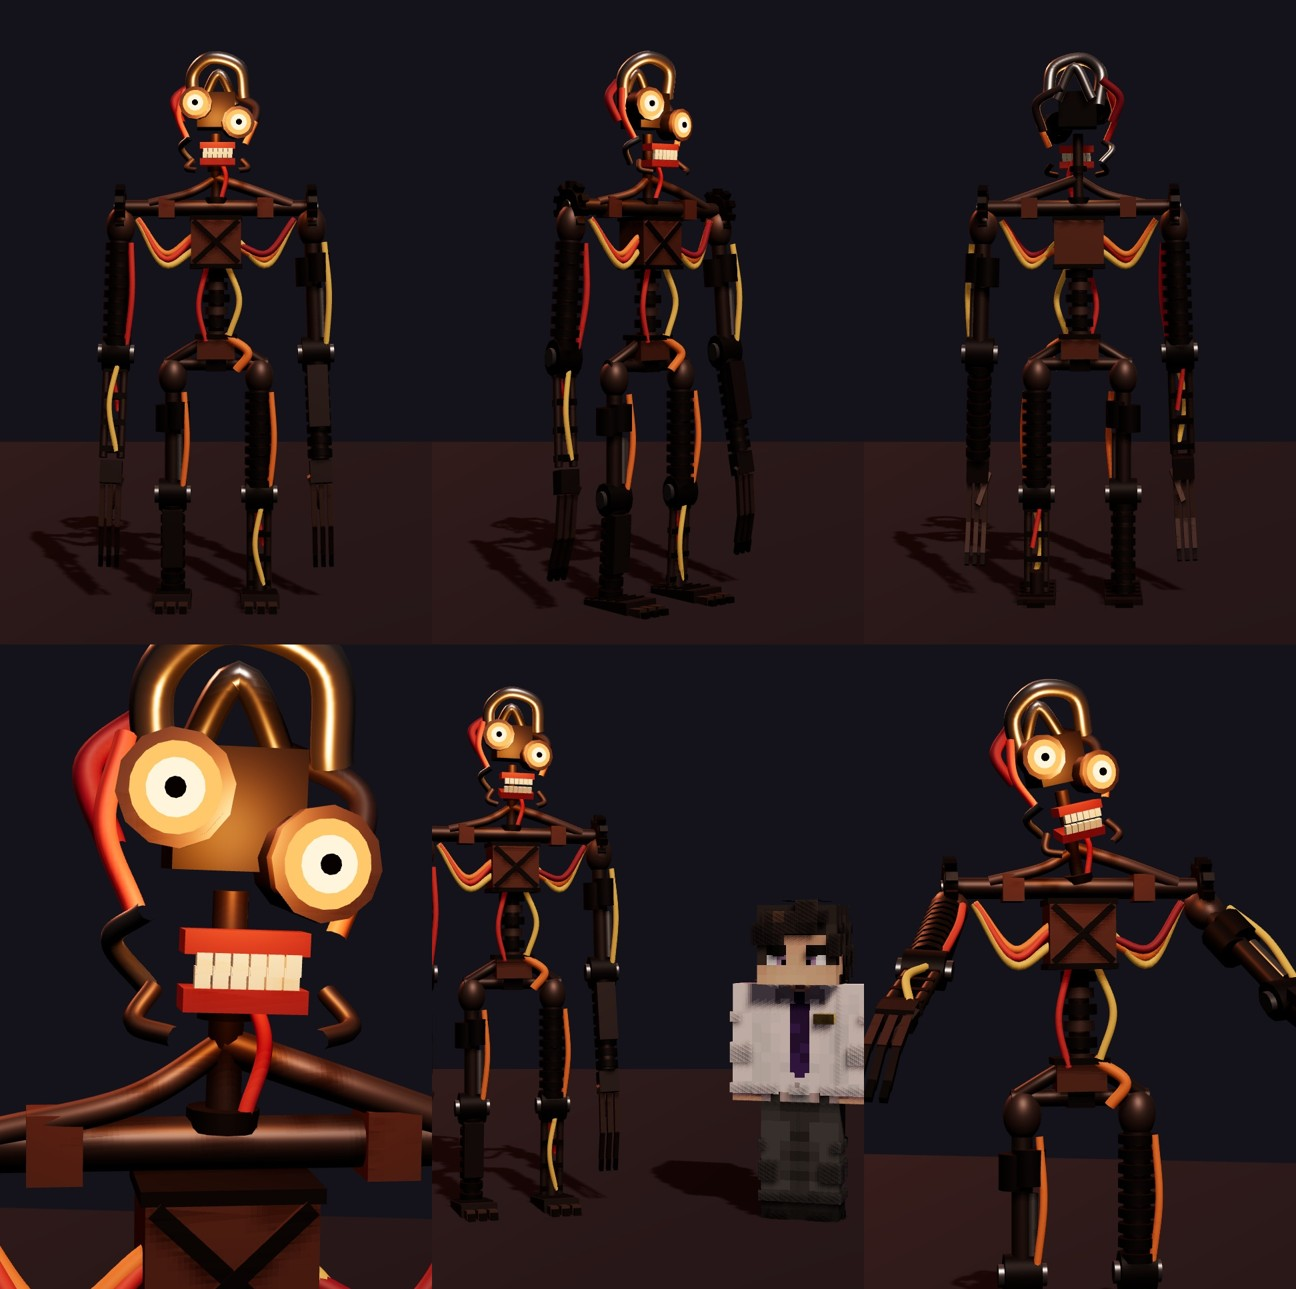
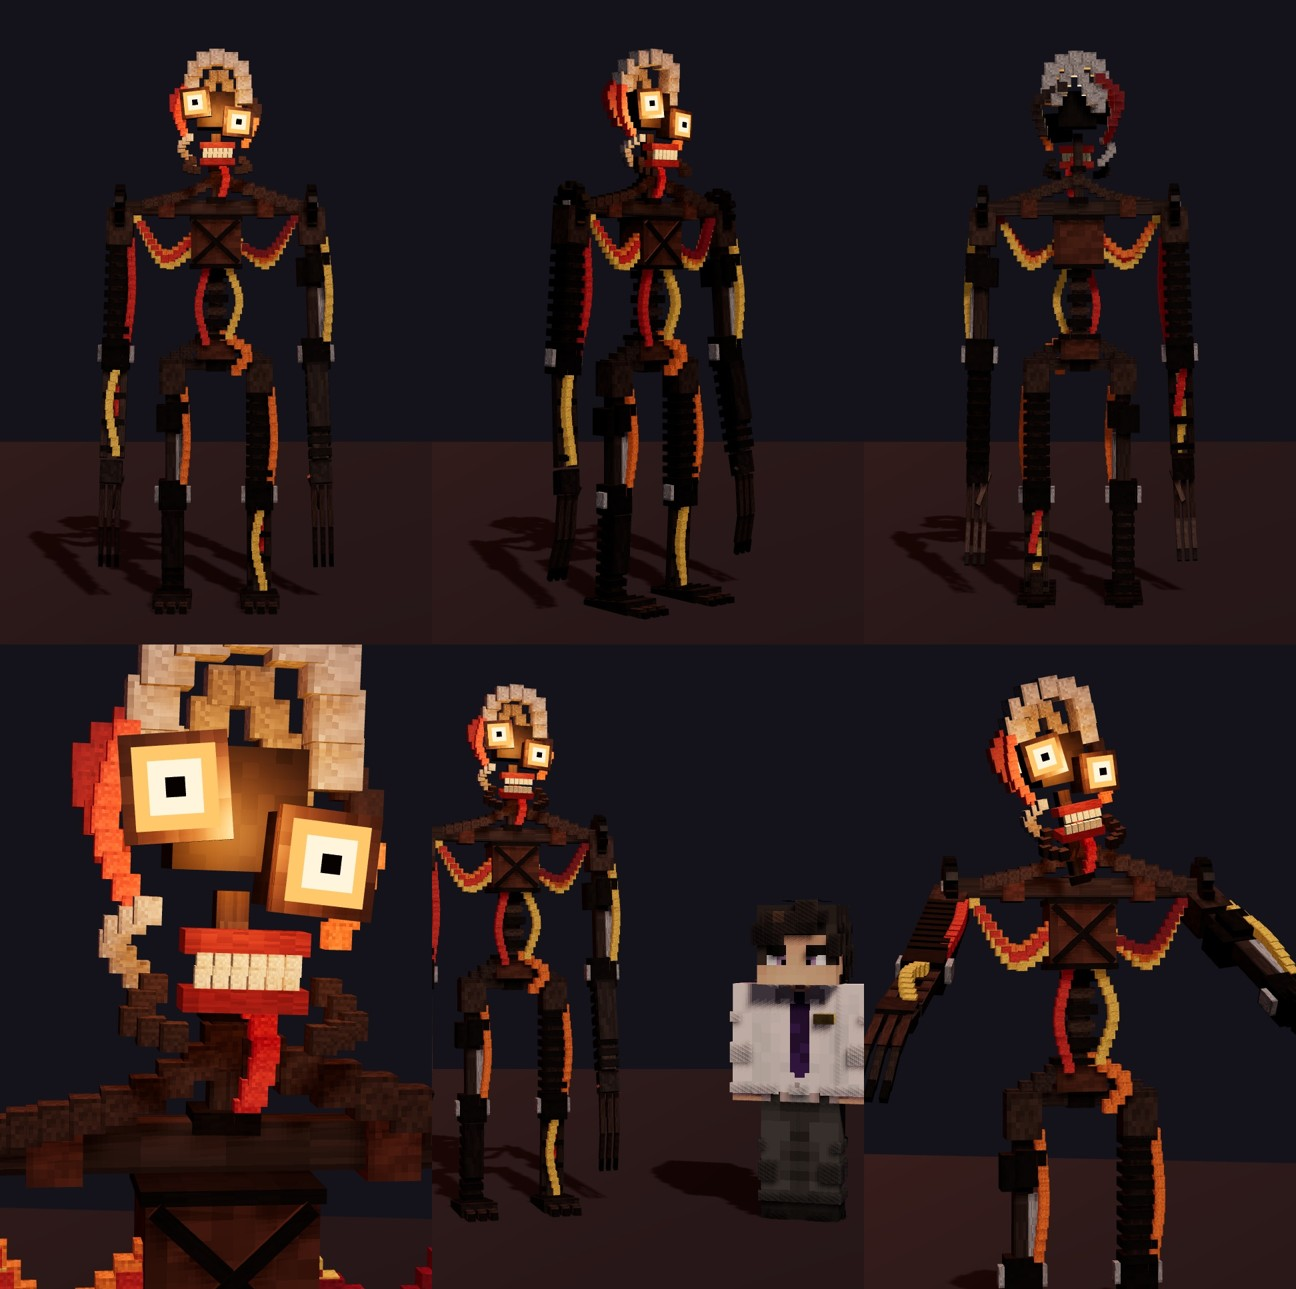
Mimic: pixelated Minecraft look (square prisms, voxel cables, pixel-noise textures, pixel eyes)
Claude-Session: https://claude.ai/code/session_017ETuxfviGNxYPofscL2qoo

diff --git a/fnaf_volta_mine/src/mimic.js b/fnaf_volta_mine/src/mimic.js
@@ -6,17 +6,22 @@
 import * as THREE from 'three';
 import { Character, U } from './skin.js';
 
-const M = (c, metal = 0.75, rough = 0.45, em = null, ei = 0) => new THREE.MeshStandardMaterial({ color: c, metalness: metal, roughness: rough, emissive: em || '#000000', emissiveIntensity: ei });
+let SEEDP = 3; const rnd = () => ((SEEDP = (SEEDP * 1664525 + 1013904223) >>> 0) / 4294967296);
+function pixTex(n = 8) { const c = document.createElement('canvas'); c.width = c.height = n; const g = c.getContext('2d');
+  for (let y = 0; y < n; y++) for (let x = 0; x < n; x++) { const v = Math.round(200 + 55 * rnd() - (x === 0 || y === 0 ? 30 : 0)); g.fillStyle = `rgb(${v},${v},${v})`; g.fillRect(x, y, 1, 1); }
+  const t = new THREE.CanvasTexture(c); t.magFilter = t.minFilter = THREE.NearestFilter; t.generateMipmaps = false; t.colorSpace = THREE.SRGBColorSpace; return t; }
+const M = (c, metal = 0.6, rough = 0.55, em = null, ei = 0) => new THREE.MeshStandardMaterial({ color: c, map: pixTex(), metalness: metal, roughness: rough, emissive: em || '#000000', emissiveIntensity: ei });
 export function buildMimicV2(canvas) {
   const ch = new Character('mimic', canvas, { prop: { leg: 1.32, arm: 1.42, torso: 1.12 } });
   for (const m of [ch.body, ch.bodyO, ch.headMesh, ch.hat]) m.visible = false; for (const L of [ch.armR, ch.armL, ch.legR, ch.legL]) { L.a.visible = false; L.o.visible = false; }
-  const met = M('#5a4844'), met2 = M('#6e5650', 0.7, 0.5), dk = M('#2a2222', 0.6, 0.55), rust = M('#7a4a38', 0.55, 0.6), silver = M('#bdb6b8', 0.9, 0.25), plate = M('#4a3e3e', 0.7, 0.5);
+  const met = M('#5a4844'), met2 = M('#6e5650', 0.7, 0.5), dk = M('#2a2222', 0.6, 0.55), rust = M('#7a4a38', 0.55, 0.6), silver = M('#c8c4c8', 0.35, 0.4), plate = M('#4a3e3e', 0.7, 0.5);
   const cab = ['#e8742a', '#c8402a', '#e8b24a', '#8a2a2a', '#3a2a2a'].map(c => M(c, 0.1, 0.55, c, 0.12));
   const add = (m, p) => { m.castShadow = true; m.receiveShadow = true; p.add(m); return m; };
-  const cyl = (r, h, mat, x, y, z, p, rx = 0, rz = 0, ry = 0, seg = 12) => { const m = add(new THREE.Mesh(new THREE.CylinderGeometry(r * U, r * U, h * U, seg), mat), p); m.position.set(x * U, y * U, z * U); m.rotation.set(rx, ry, rz); return m; };
+  const cyl = (r, h, mat, x, y, z, p, rx = 0, rz = 0, ry = 0, seg = 12) => { const m = add(new THREE.Mesh(new THREE.BoxGeometry(2 * r * U * 0.9, h * U, 2 * r * U * 0.9), mat), p); m.position.set(x * U, y * U, z * U); m.rotation.set(rx, ry, rz); return m; };
   const box = (w, h, d, mat, x, y, z, p) => { const m = add(new THREE.Mesh(new THREE.BoxGeometry(w * U, h * U, d * U), mat), p); m.position.set(x * U, y * U, z * U); return m; };
-  const ball = (r, mat, x, y, z, p) => { const m = add(new THREE.Mesh(new THREE.SphereGeometry(r * U, 14, 10), mat), p); m.position.set(x * U, y * U, z * U); return m; };
-  const tube = (pts, mat, p, r = 0.2, n = 24) => add(new THREE.Mesh(new THREE.TubeGeometry(new THREE.CatmullRomCurve3(pts.map(q => new THREE.Vector3(q[0] * U, q[1] * U, q[2] * U))), n, r * U, 8), mat), p);
+  const ball = (r, mat, x, y, z, p) => { const m = add(new THREE.Mesh(new THREE.BoxGeometry(1.8 * r * U, 1.8 * r * U, 1.8 * r * U), mat), p); m.position.set(x * U, y * U, z * U); return m; };
+  const tube = (pts, mat, p, r = 0.2) => { const cv = new THREE.CatmullRomCurve3(pts.map(q => new THREE.Vector3(q[0] * U, q[1] * U, q[2] * U))); const s2 = Math.max(0.5, 2.2 * r) * U; const n = Math.max(3, Math.ceil(cv.getLength() / s2));
+    const g = new THREE.Group(); p.add(g); const geo = new THREE.BoxGeometry(s2 * 1.05, s2 * 1.05, s2 * 1.05); for (let i = 0; i <= n; i++) { const v = cv.getPointAt(i / n); const m = add(new THREE.Mesh(geo, mat), g); m.position.copy(v); } return g; };
   const bellows = (r, h, y0, p, mat = dk, n = 9) => { cyl(r * 0.72, h, met, 0, y0 - h / 2, 0, p); for (let i = 0; i < n; i++) cyl(r, h / n * 0.62, mat, 0, y0 - (i + 0.5) * h / n, 0, p); };
   const gear = (x, y, z, r, p) => { const g = new THREE.Group(); g.position.set(x * U, y * U, z * U); p.add(g); cyl(r, 0.7, dk, 0, 0, 0, g, 0, Math.PI / 2); for (let k = 0; k < 10; k++) { const a = k / 10 * Math.PI * 2; box(0.6, 0.45, 0.45, dk, 0, Math.cos(a) * (r + 0.25), Math.sin(a) * (r + 0.25), g).rotation.x = a; } cyl(0.4, 0.9, silver, 0, 0, 0, g, 0, Math.PI / 2); return g; };
 
